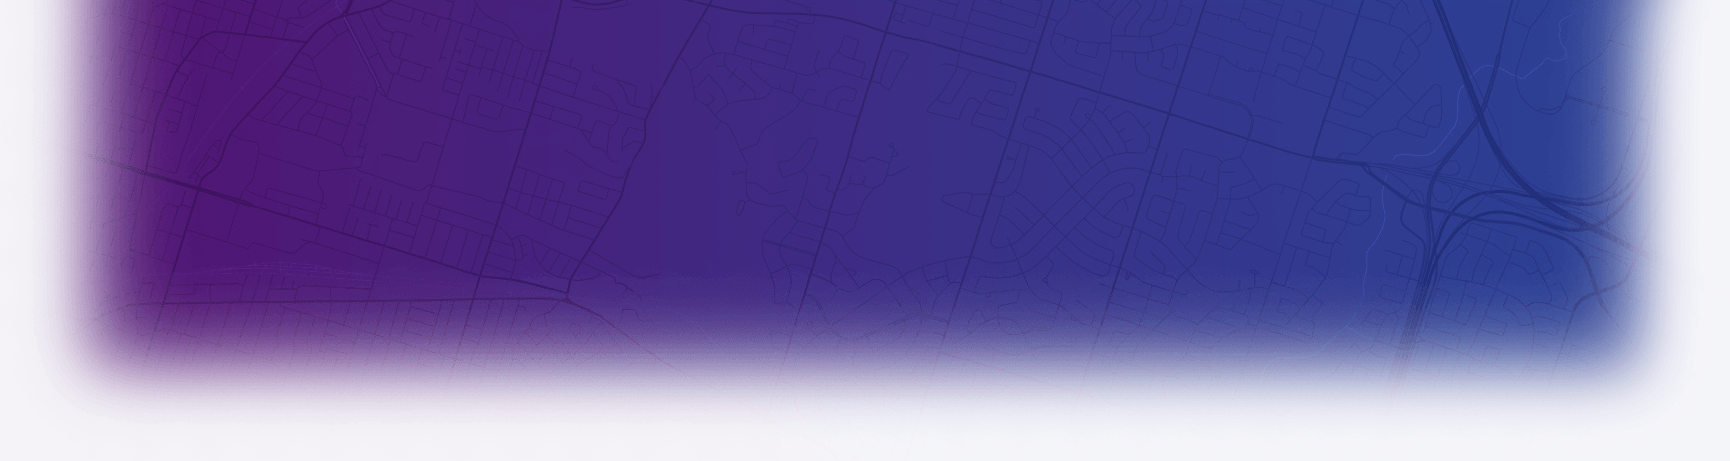
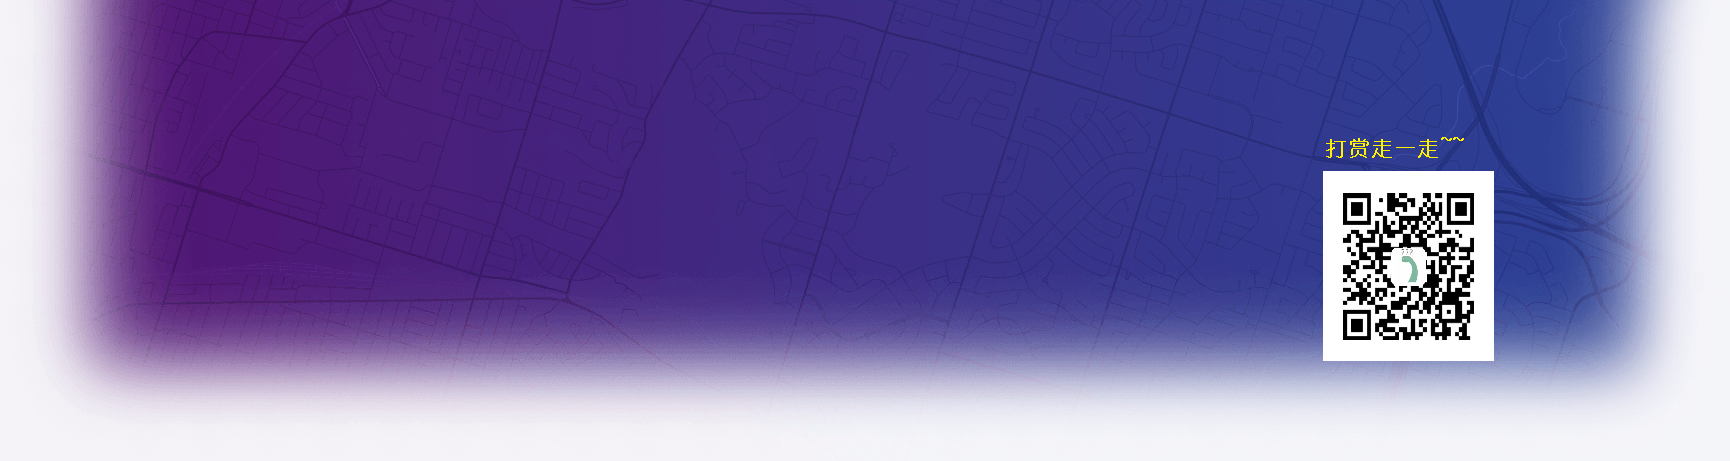
readmes

Changed region(s): [[0.7491, 0.3644, 0.874, 0.7896], [0.7491, 0.3037, 0.8428, 0.3341]]

diff --git a/README.md b/README.md
@@ -1,7 +1,7 @@
 # arcgisapi
 还在为arcgis JS api 不能访问烦恼吗，我来解决
 
-在线访问地址：[https://ly2013203742.github.io/arcgisapi/sdk/latest/api-reference/index.html](https://ly2013203742.github.io/arcgisapi/sdk/latest/api-reference/index.html)
+### 在线访问地址：[https://ly2013203742.github.io/arcgisapi/sdk/latest/api-reference/index.html](https://ly2013203742.github.io/arcgisapi/sdk/latest/api-reference/index.html)
 
 
 ### 打赏走一走哟~~~
